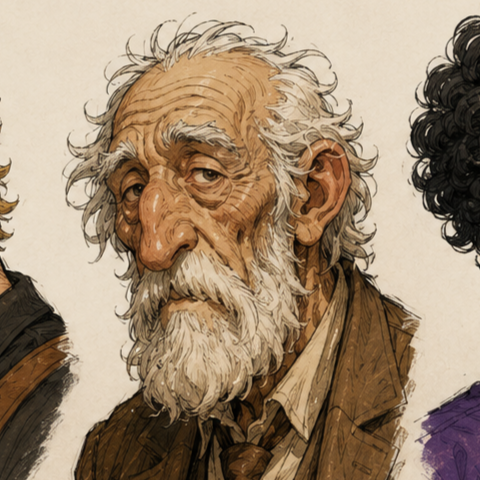
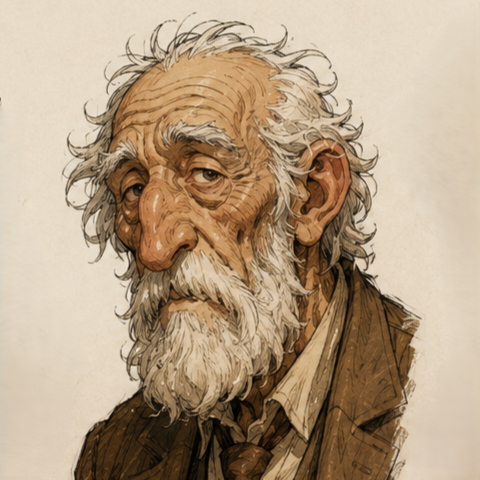
ADD imagenes

diff --git a/index.html b/index.html
@@ -368,6 +368,50 @@
     margin-top: 0.7rem;
   }
 
+  /* Speaker faces inside dialogue */
+  .speech {
+    display: flex;
+    align-items: flex-start;
+    gap: 0.85rem;
+    margin: 0.75rem 0;
+  }
+
+  .speech .face {
+    flex: 0 0 auto;
+    width: 52px;
+    height: 52px;
+    border-radius: 50%;
+    object-fit: cover;
+    object-position: top center;
+    border: 2px solid var(--gold);
+    box-shadow: 0 2px 6px var(--shadow);
+    margin-top: 0.15rem;
+    background: var(--parchment-dark);
+  }
+
+  .speech p { margin: 0 !important; }
+  .speech p::first-letter { font-size: inherit; float: none; line-height: inherit; margin: 0; color: inherit; font-weight: inherit; }
+
+  /* Narration line inside a dialogue block (no speaker) */
+  .narration {
+    margin: 0.5rem 0 0.5rem 0 !important;
+    opacity: 0.8;
+  }
+
+  /* Face for an attributed quote */
+  .quote-face {
+    display: block;
+    width: 60px;
+    height: 60px;
+    border-radius: 50%;
+    object-fit: cover;
+    object-position: top center;
+    border: 2px solid var(--red);
+    box-shadow: 0 2px 8px var(--shadow);
+    margin: 0 auto 1rem;
+    background: var(--parchment-dark);
+  }
+
   @media (max-width: 600px) {
     .page, .cover { padding: 2.5rem 1.8rem 2.5rem 2.2rem; }
     p { font-size: 1.05rem; }
@@ -436,19 +480,19 @@
     <p>Los cuatro, por razones distintas y sin conocerse entre sí, se presentaron. Cuando se vieron en la plaza, hubo un silencio incómodo de aproximadamente cuarenta y cinco segundos.</p>
 
     <div class="dialogue">
-      <p>—Bien —dijo Carlos, finalmente, con su voz de pergamino antiguo—. Peores compañías he tenido. Sobreviví a la invención de la rueda, sobreviviré a esto.</p>
-      <p>Franco miró al grupo y suspiró, haciendo temblar una maceta cercana.</p>
-      <p>—¿Cuál es el plan?</p>
+      <div class="speech"><img class="face" src="carlos%20cara.png" alt="Carlos"><p>—Bien —dijo Carlos, finalmente, con su voz de pergamino antiguo—. Peores compañías he tenido. Sobreviví a la invención de la rueda, sobreviviré a esto.</p></div>
+      <p class="narration">Franco miró al grupo y suspiró, haciendo temblar una maceta cercana.</p>
+      <div class="speech"><img class="face" src="franco%20cara.png" alt="Franco"><p>—¿Cuál es el plan?</p></div>
     </div>
 
     <p>Tornillo ya había sacado un papel y dibujaba con su espalda perfectamente vertical, como un arquitecto romano, el peinado inmóvil como si también fuera de metal. Felipe se acomodó las medias, se colgó una bolsa al hombro y dijo con voz tranquila:</p>
 
     <div class="dialogue">
-      <p>—Yo traje las herramientas.</p>
-      <p>Los tres lo miraron.</p>
-      <p>—¿Qué? —dijo Felipe—. ¿Alguien más las trajo?</p>
-      <p>Silencio.</p>
-      <p>—Exacto.</p>
+      <div class="speech"><img class="face" src="felipe%20cara.png" alt="Felipe"><p>—Yo traje las herramientas.</p></div>
+      <p class="narration">Los tres lo miraron.</p>
+      <div class="speech"><img class="face" src="felipe%20cara.png" alt="Felipe"><p>—¿Qué? —dijo Felipe—. ¿Alguien más las trajo?</p></div>
+      <p class="narration">Silencio.</p>
+      <div class="speech"><img class="face" src="felipe%20cara.png" alt="Felipe"><p>—Exacto.</p></div>
     </div>
 
     <div class="page-num">— II —</div>
@@ -469,9 +513,9 @@
     <p>Felipe trepaba con una agilidad sorprendente. Subía a los lugares donde nadie más podía llegar, ataba cuerdas, pasaba por huecos estrechos, revisaba vigas desde ángulos imposibles. Lo hacía con una gracia que parecía coreografiada. En un momento casi resbala, pero se sostuvo con una mano y se acomodó el cabello con la otra.</p>
 
     <div class="dialogue">
-      <p>Tornillo lo miró.</p>
-      <p>—¿Cómo hiciste eso?</p>
-      <p>—Práctica —dijo Felipe, sin más.</p>
+      <p class="narration">Tornillo lo miró.</p>
+      <div class="speech"><img class="face" src="tornillo%20cara.png" alt="Tornillo"><p>—¿Cómo hiciste eso?</p></div>
+      <div class="speech"><img class="face" src="felipe%20cara.png" alt="Felipe"><p>—Práctica —dijo Felipe, sin más.</p></div>
     </div>
 
     <div class="page-num">— III —</div>
@@ -484,20 +528,20 @@
     <p>Cuando llegaron, el molino estaba inclinado peligrosamente. Una de las vigas maestras había cedido y toda la estructura crujía con el viento como una queja muy antigua.</p>
 
     <div class="dialogue">
-      <p>—Necesitamos apuntalar esa viga desde abajo —dijo Tornillo, analizando la estructura—, pero el espacio interior es mínimo. Cincuenta centímetros, tal vez menos.</p>
-      <p>—Yo no entro ahí —admitió Franco con honestidad absoluta—. Físicamente. No entraré.</p>
-      <p>—Yo podría intentarlo —dijo Carlos—, pero mis rodillas tienen una opinión distinta y llevan ganando desde 1987.</p>
-      <p>—Yo tampoco puedo doblarme para pasar —admitió Tornillo, señalándose la espalda de metal con resignación—. Diseño del fabricante.</p>
-      <p>—Yo entro —dijo Felipe, ya agachándose para calcular el espacio—. Sin problema.</p>
+      <div class="speech"><img class="face" src="tornillo%20cara.png" alt="Tornillo"><p>—Necesitamos apuntalar esa viga desde abajo —dijo Tornillo, analizando la estructura—, pero el espacio interior es mínimo. Cincuenta centímetros, tal vez menos.</p></div>
+      <div class="speech"><img class="face" src="franco%20cara.png" alt="Franco"><p>—Yo no entro ahí —admitió Franco con honestidad absoluta—. Físicamente. No entraré.</p></div>
+      <div class="speech"><img class="face" src="carlos%20cara.png" alt="Carlos"><p>—Yo podría intentarlo —dijo Carlos—, pero mis rodillas tienen una opinión distinta y llevan ganando desde 1987.</p></div>
+      <div class="speech"><img class="face" src="tornillo%20cara.png" alt="Tornillo"><p>—Yo tampoco puedo doblarme para pasar —admitió Tornillo, señalándose la espalda de metal con resignación—. Diseño del fabricante.</p></div>
+      <div class="speech"><img class="face" src="felipe%20cara.png" alt="Felipe"><p>—Yo entro —dijo Felipe, ya agachándose para calcular el espacio—. Sin problema.</p></div>
     </div>
 
     <p>Los tres lo miraron con una mezcla de alivio y admiración que ninguno verbalizó del todo.</p>
 
     <div class="dialogue">
-      <p>—Necesito que alguien me indique el ángulo exacto desde afuera —dijo Felipe—, y que alguien sostenga la estructura mientras trabajo.</p>
-      <p>—El ángulo lo doy yo —dijo Tornillo.</p>
-      <p>—La estructura la sostengo yo —dijo Franco.</p>
-      <p>—Y yo —dijo Carlos, apoyando su bastón en el suelo con solemnidad—, les digo exactamente qué pasará si lo hacen mal. Llevo viendo molinos caer desde antes de que ninguno de ustedes naciera.</p>
+      <div class="speech"><img class="face" src="felipe%20cara.png" alt="Felipe"><p>—Necesito que alguien me indique el ángulo exacto desde afuera —dijo Felipe—, y que alguien sostenga la estructura mientras trabajo.</p></div>
+      <div class="speech"><img class="face" src="tornillo%20cara.png" alt="Tornillo"><p>—El ángulo lo doy yo —dijo Tornillo.</p></div>
+      <div class="speech"><img class="face" src="franco%20cara.png" alt="Franco"><p>—La estructura la sostengo yo —dijo Franco.</p></div>
+      <div class="speech"><img class="face" src="carlos%20cara.png" alt="Carlos"><p>—Y yo —dijo Carlos, apoyando su bastón en el suelo con solemnidad—, les digo exactamente qué pasará si lo hacen mal. Llevo viendo molinos caer desde antes de que ninguno de ustedes naciera.</p></div>
     </div>
 
     <div class="page-num">— IV —</div>
@@ -510,12 +554,12 @@
     <p>Y Felipe entró al hueco. Pequeño, oscuro, lleno de polvo de siglos. Nadie lo veía trabajar. Solo se escuchaban sus movimientos, el roce de la madera, algún golpe calculado, y de vez en cuando:</p>
 
     <div class="dialogue">
-      <p>—Tornillo, ¿más a la derecha o sigo así?</p>
-      <p>—Tres centímetros a la derecha.</p>
-      <p>—¿Carlos, esto aguanta?</p>
-      <p>—Si lo haces como te digo, sí. Si improvisar, no.</p>
-      <p>—Franco, no te muevas.</p>
-      <p>—No me muevo ni aunque quiera —respondió Franco desde afuera.</p>
+      <div class="speech"><img class="face" src="felipe%20cara.png" alt="Felipe"><p>—Tornillo, ¿más a la derecha o sigo así?</p></div>
+      <div class="speech"><img class="face" src="tornillo%20cara.png" alt="Tornillo"><p>—Tres centímetros a la derecha.</p></div>
+      <div class="speech"><img class="face" src="felipe%20cara.png" alt="Felipe"><p>—¿Carlos, esto aguanta?</p></div>
+      <div class="speech"><img class="face" src="carlos%20cara.png" alt="Carlos"><p>—Si lo haces como te digo, sí. Si improvisar, no.</p></div>
+      <div class="speech"><img class="face" src="felipe%20cara.png" alt="Felipe"><p>—Franco, no te muevas.</p></div>
+      <div class="speech"><img class="face" src="franco%20cara.png" alt="Franco"><p>—No me muevo ni aunque quiera —respondió Franco desde afuera.</p></div>
     </div>
 
     <p>El molino crujió. Una vez. Dos veces. Y luego quedó quieto. Completamente quieto.</p>
@@ -540,19 +584,19 @@
     <p>Carlos habló primero, como correspondía al más antiguo:</p>
 
     <div class="dialogue">
-      <p>—He vivido suficiente para saber que la gente siempre mirará lo que sobresale. Lo raro, lo distinto, lo que no encaja. Lo mirarán, lo señalarán, a veces se reirán. —Hizo una pausa larga—. Y lo necesitarán cuando las cosas se pongan difíciles.</p>
+      <div class="speech"><img class="face" src="carlos%20cara.png" alt="Carlos"><p>—He vivido suficiente para saber que la gente siempre mirará lo que sobresale. Lo raro, lo distinto, lo que no encaja. Lo mirarán, lo señalarán, a veces se reirán. —Hizo una pausa larga—. Y lo necesitarán cuando las cosas se pongan difíciles.</p></div>
     </div>
 
     <p>Franco asintió despacio, y tres palomas alzaron vuelo por la vibración. Tornillo se mantuvo erguido, que era lo único que su espalda le permitía hacer, y dijo:</p>
 
     <div class="dialogue">
-      <p>—Lo que parece un defecto desde afuera suele ser exactamente la herramienta que falta.</p>
+      <div class="speech"><img class="face" src="tornillo%20cara.png" alt="Tornillo"><p>—Lo que parece un defecto desde afuera suele ser exactamente la herramienta que falta.</p></div>
     </div>
 
     <p>Felipe se sacudió el polvo de la falda, se acomodó el cabello con dos dedos, y añadió:</p>
 
     <div class="dialogue">
-      <p>—Yo llevo años siendo exactamente lo que soy. Ya aprendí que el problema nunca fue mío.</p>
+      <div class="speech"><img class="face" src="felipe%20cara.png" alt="Felipe"><p>—Yo llevo años siendo exactamente lo que soy. Ya aprendí que el problema nunca fue mío.</p></div>
     </div>
 
     <div class="page-num">— VI —</div>
@@ -565,10 +609,16 @@
     <p>Esa noche, en la única taberna del pueblo, alguien preguntó cómo lo habían logrado. Franco respondió, simplemente, con esa calma que da el peso propio:</p>
 
     <blockquote>
+      <img class="quote-face" src="franco%20cara.png" alt="Franco">
       <p>Ninguno de nosotros servía para todo. Pero cada uno servía para algo que los demás no podían hacer. Eso fue suficiente.</p>
     </blockquote>
 
     <p>Tornillo levantó su vaso con la espalda recta. Carlos lo levantó con la mano temblorosa pero firme. Felipe lo levantó con elegancia. Y Franco lo levantó con cuidado, porque la última vez que no tuvo cuidado, rompió el vaso, la mesa y parte del orgullo del tabernero.</p>
+
+    <figure class="illustration">
+      <img src="el%20cuarteto%20imposible%20final.png" alt="Los cuatro personajes brindando juntos en la taberna del pueblo">
+      <figcaption>El brindis en la taberna de Villarreal del Asombro</figcaption>
+    </figure>
 
     <p>El molino siguió girando por muchos años más. Y en Villarreal del Asombro, cuando alguien llegaba sintiéndose demasiado raro, demasiado distinto, demasiado <em>cualquier cosa</em>, los viejos del pueblo contaban la historia de los cuatro. Y la gente escuchaba.</p>
 